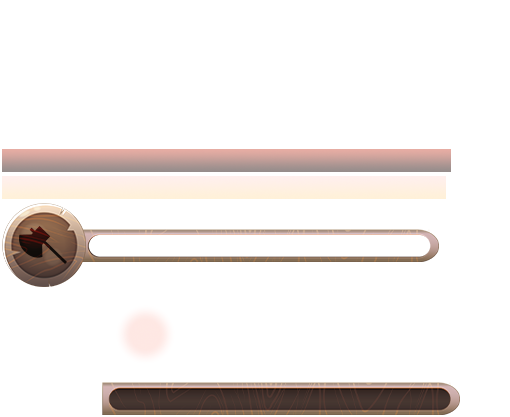
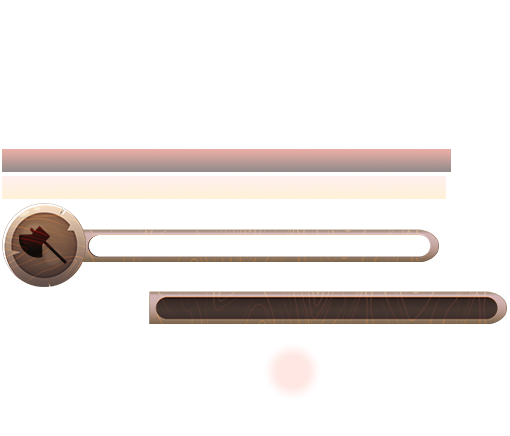
EnergyBall

Changed region(s): [[0.0, 0.3429, 1.0, 0.8417], [0.1765, 0.8106, 0.9118, 0.9976]]

diff --git a/javascript/math_game/js/AxPage.js b/javascript/math_game/js/AxPage.js
@@ -146,7 +146,7 @@ demo.AxPage = {
       //EnergyNumSum = game.add.sprite(0,100,'Panel','PanelGlowNumSum.png');
       //EnergyNumSum.alpha = 0;
       
-      EnergyNumAdd = game.add.sprite(0,100,'Panel','PanelGlowNumAdd.png');
+      EnergyNumAdd = game.add.sprite(0,100,'AxBar','AxBarEnergyBall.png');
       EnergyNumAdd.alpha = 0;      
       //ArrowSheet------------------------------------------------------------------------------------------------------------------
         
